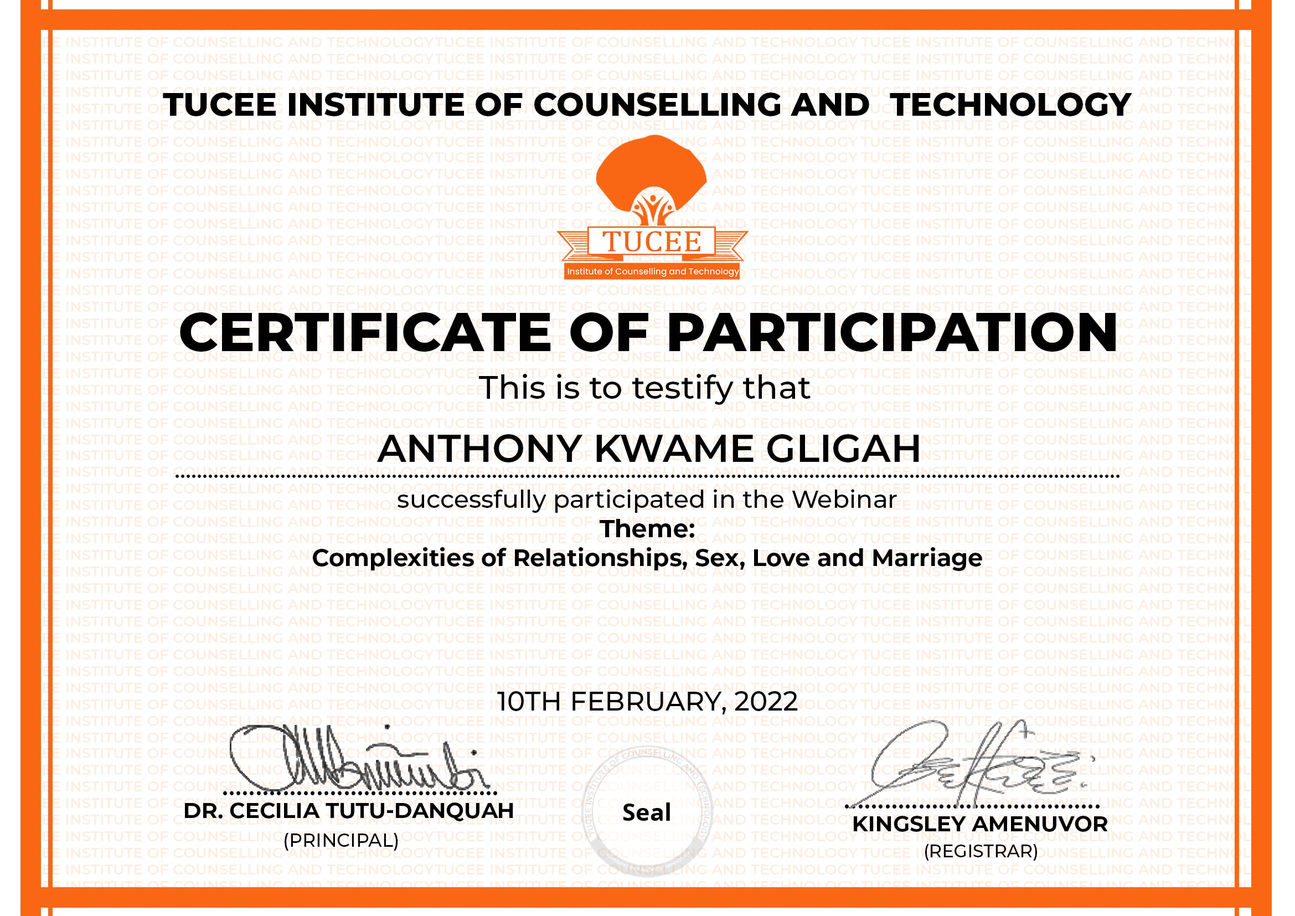
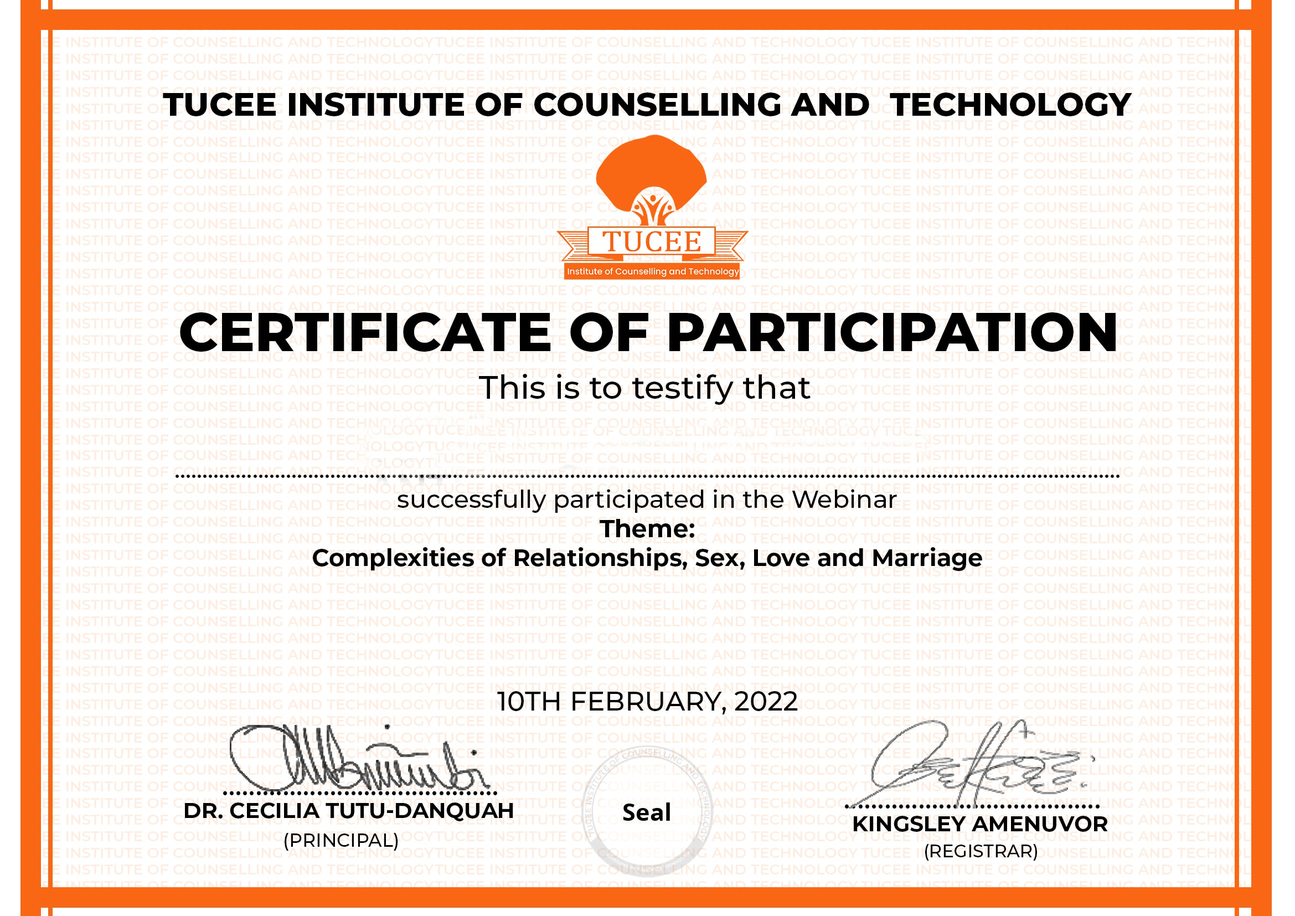
perfect

Changed region(s): [[0.2809, 0.4625, 0.7178, 0.5242], [0.9363, 0.0308, 0.9675, 0.0617], [0.4369, 0.2467, 0.4681, 0.2775]]

diff --git a/assets/js/cert.js b/assets/js/cert.js
@@ -12,9 +12,10 @@ image.onload = function () {
 function drawImage() {
 	// ctx.clearRect(0, 0, canvas.width, canvas.height)
 	ctx.drawImage(image, 0, 0, canvas.width, canvas.height)
-	ctx.font = '40px monotype corsiva'
-	ctx.fillStyle = '#29e'
-	ctx.fillText(nameInput.value, 40, 180)
+	ctx.font = '20px monotype arial'
+	ctx.fillStyle = '#00000'
+	ctx.textAlign = "center"
+	ctx.fillText(nameInput.value, 250, 180)
 }
 
 nameInput.addEventListener('input', function () {
@@ -22,6 +23,6 @@ nameInput.addEventListener('input', function () {
 })
 
 downloadBtn.addEventListener('click', function () {
-	downloadBtn.href = canvas.toDataURL('image/jpg')
+	downloadBtn.href = canvas.toDataURL('image/png')
 	downloadBtn.download = 'Certificate - ' + nameInput.value
 })

diff --git a/certification.php b/certification.php
@@ -102,6 +102,7 @@
                                                 </div>
                                             </div>
                                         </div>
+                                        
                                     </div>
 
                                     
@@ -113,8 +114,12 @@
             Name:
             <input id="name" type='text'>
         </label> -->
-        <!-- <a href="#" id="download-btn">Download</a> -->
+        <!-- <a href="#" id="download-btn" download>Download</a> -->
         <canvas id="canvas" height="350px" width="500px"></canvas>
+        <label>
+            Name:
+            <input id="name" type='text'>
+        </label>
     <!-- </div> -->
                                     
 

diff --git a/sidebar.php b/sidebar.php
@@ -5,7 +5,7 @@
                                  data-perfect-scrollbar>
                                 <div class="sidebar-p-y">
                                     <div class="sidebar-heading">APPLICATIONS</div>
-                                    <ul class="sidebar-menu sm-active-button-bg">
+                                    <ul class="sidebar-menu sm-button-bg">
                                         <li class="sidebar-menu-item active">
                                             <a class="sidebar-menu-button"
                                                href="dashboard.php">
